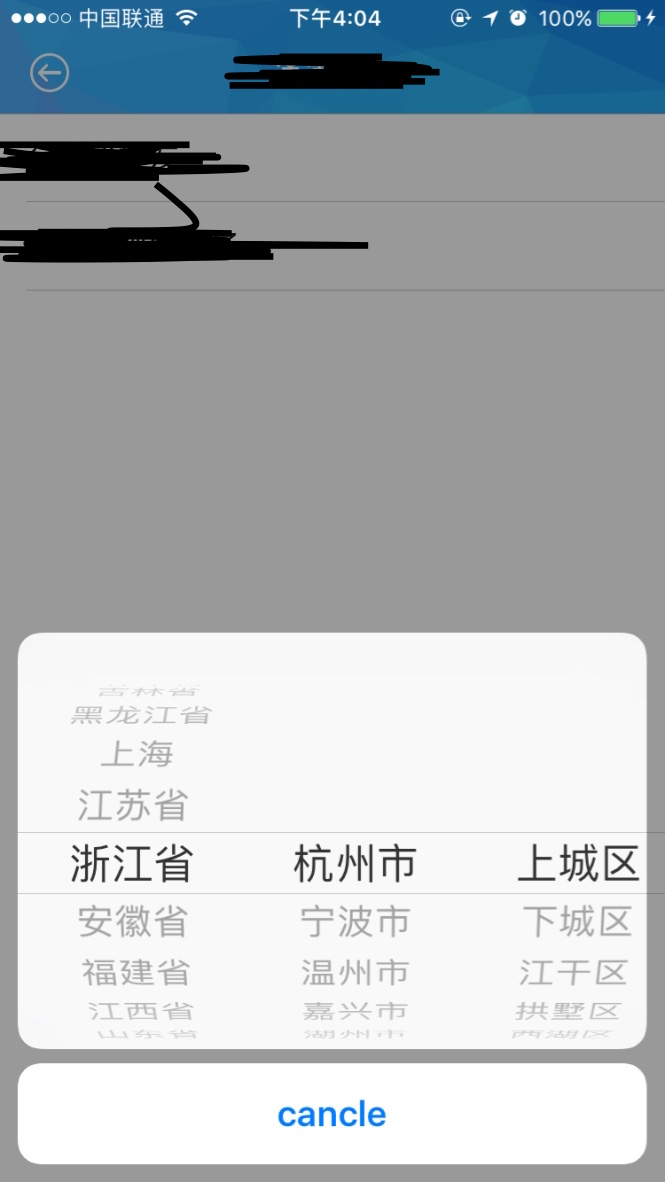
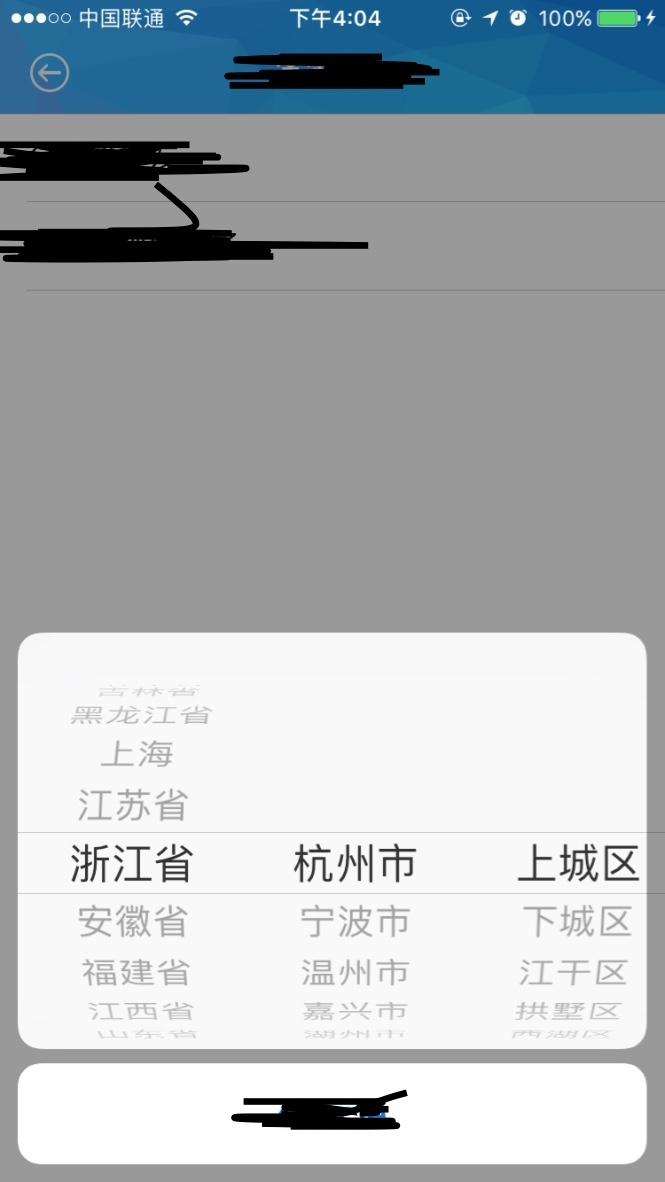
code review

Changed region(s): [[0.3609, 0.9137, 0.6015, 0.9746]]

diff --git a/UICityPicker/UICityPicker.swift b/UICityPicker/UICityPicker.swift
@@ -18,7 +18,7 @@ open class UICityPicker: NSObject {
         
         alertController.view.addSubview(datePicker)//add subview
         
-        let cancelAction = UIAlertAction(title: "cancle", style: UIAlertActionStyle.cancel, handler: nil);
+        let cancelAction = UIAlertAction(title: "cancel", style: UIAlertActionStyle.cancel, handler: nil);
         //add button to action sheet
         alertController.addAction(cancelAction)
         
